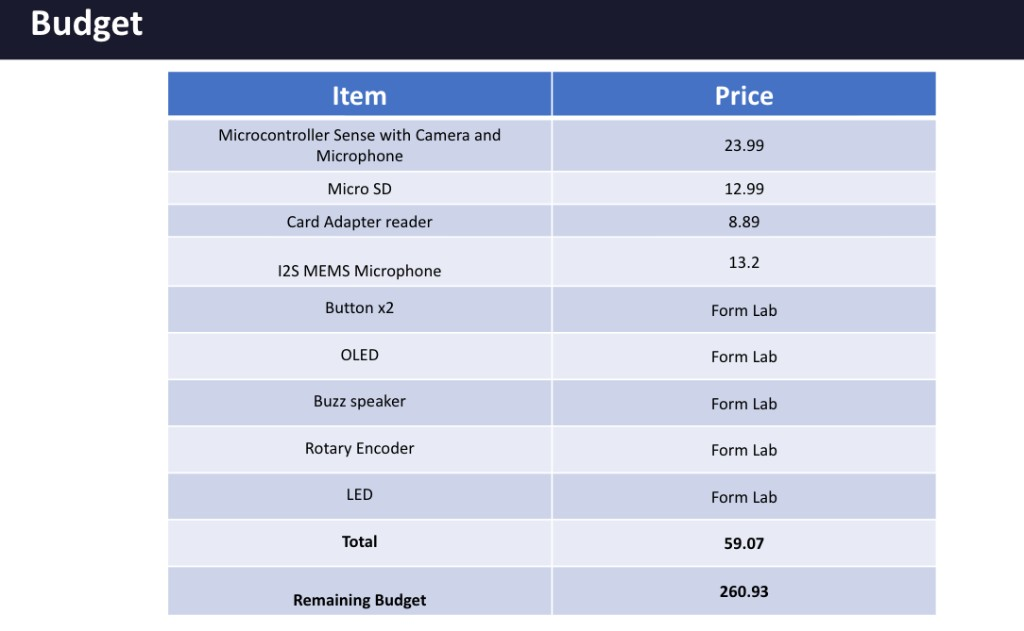
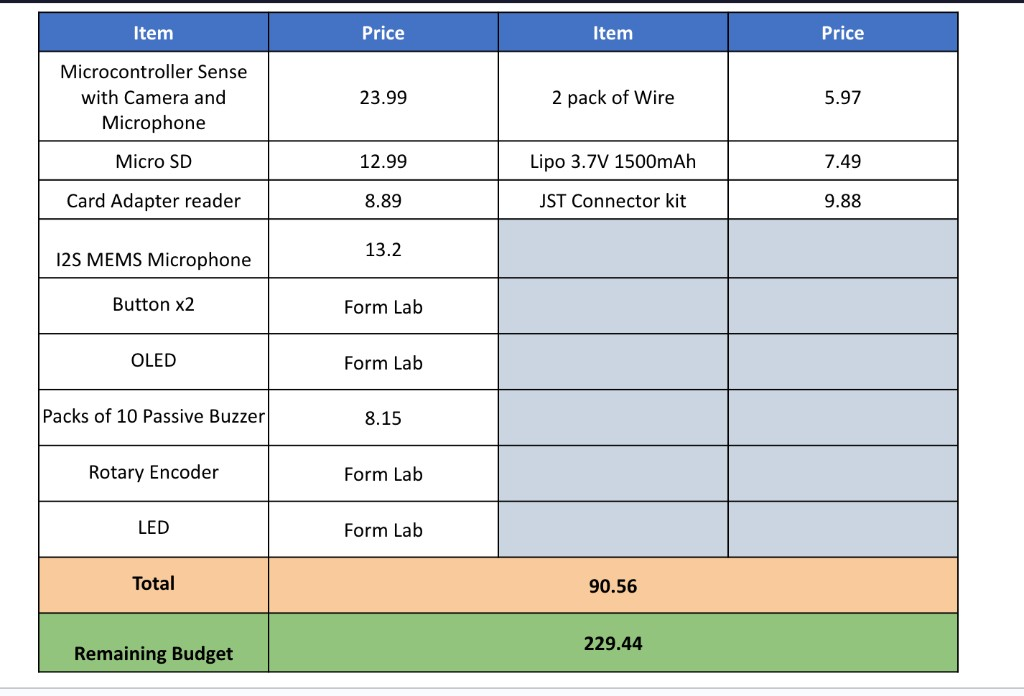
Update budget with revised BOM and image.
Refresh BUDGET.md line items, totals, and budget.png to match the latest hardware cost table.

diff --git a/BUDGET.md b/BUDGET.md
@@ -1,5 +1,7 @@
 # Budget
 
+![Budget table](budget.png)
+
 ## Itemized Cost
 
 | Item | Price (USD) |
@@ -10,9 +12,12 @@
 | I2S MEMS Microphone | 13.20 |
 | Button x2 | Form Lab |
 | OLED | Form Lab |
-| Buzz speaker | Form Lab |
+| Packs of 10 Passive Buzzer | 8.15 |
 | Rotary Encoder | Form Lab |
 | LED | Form Lab |
+| 2 pack of Wire | 5.97 |
+| Lipo 3.7V 1500mAh | 7.49 |
+| JST Connector kit | 9.88 |
 
-| **Total** | **59.07** |
-| **Remaining Budget** | **260.93** |
+| **Total** | **90.56** |
+| **Remaining Budget** | **229.44** |
